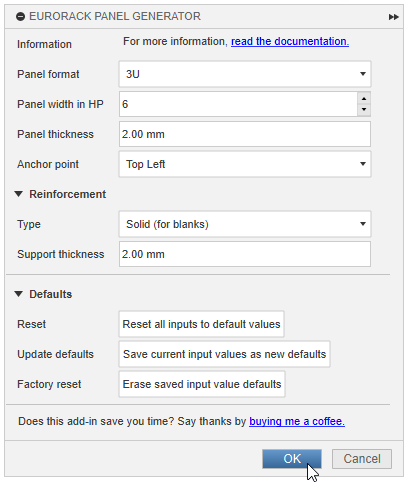
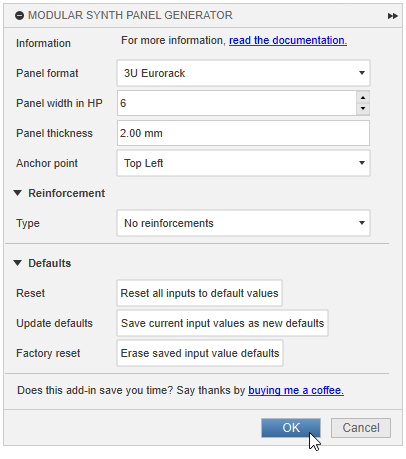
Rename project to ModularSynthPanelGenerator

Changed region(s): [[0.0, 0.0, 1.0, 1.0], [0.2956, 0.427, 0.9163, 0.549]]

diff --git a/lib/panelUtils/panel_command.py b/lib/panelUtils/panel_command.py
@@ -1,8 +1,8 @@
 import adsk.core, adsk.fusion, traceback
 
 from .. import fusionAddInUtils as futil
-from .eurorack_panel_options import EurorackPanelOptions
-from .eurorack_panel import createEurorackPanel
+from .panel_options import PanelOptions
+from .panel_generate import generatePanelComponent
 
 app = adsk.core.Application.get()
 ui = app.userInterface
@@ -19,10 +19,10 @@ ui = app.userInterface
 # Command Inputs API Sample
 # https://help.autodesk.com/view/fusion360/ENU/?guid=GUID-e5c4dbe8-ee48-11e4-9823-f8b156d7cd97
 
-CMD_NAME = 'Eurorack Panel Generator'
-CMD_Description = 'Create a Eurorack panel'
+CMD_NAME = 'Modular Synth Panel Generator'
+CMD_Description = 'Create a modular synth panel'
 
-OPTIONS = EurorackPanelOptions('eurorack_panel.json')
+OPTIONS = PanelOptions('modular_synth_panel_generator.json')
 INPUTS: adsk.core.CommandInputs
 INPUTS_VALID = True
 
@@ -61,13 +61,13 @@ def command_created(args: adsk.core.CommandCreatedEventArgs):
 # is immediately called after the created event not command inputs were created for the dialog.
 def onCommandExecute(args: adsk.core.CommandEventArgs):
   log('Command Execute Event')
-  generateEurorackPanel(args)
+  generatePanel(args)
 
 # This event handler is called when the command needs to compute a new preview in the graphics window.
 def onCommandPreview(args: adsk.core.CommandEventArgs):
   log('Command Preview Event')
   if INPUTS_VALID:
-    generateEurorackPanel(args)
+    generatePanel(args)
   else:
     args.executeFailed = True
     args.executeFailedMessage = "Some inputs are invalid, unable to generate preview"
@@ -114,7 +114,7 @@ def initializeInputs():
   global INPUTS
   defaultLengthUnits = app.activeProduct.unitsManager.defaultLengthUnits
 
-  message = 'For more information, <a href="https://github.com/cowboy/fusion-eurorack-panel-generator">read the documentation.</a>'
+  message = 'For more information, <a href="https://github.com/cowboy/ModularSynthPanelGenerator">read the documentation.</a>'
   INPUTS.addTextBoxCommandInput('infoTextBox', 'Information', message, 1, True)            
 
   heightDropdown = INPUTS.addDropDownCommandInput('formatType', 'Panel format', adsk.core.DropDownStyles.TextListDropDownStyle) # type: ignore
@@ -158,8 +158,7 @@ def enableDisableInputs():
 
   supportTypeInput = INPUTS.itemById('supportType')
   if supportTypeInput:
-    defaults = EurorackPanelOptions('panel_options.json')
-    supportTypeId = defaults.getIdForSupportTypeName(supportTypeInput.selectedItem.name) # type: ignore
+    supportTypeId = OPTIONS.getIdForSupportTypeName(supportTypeInput.selectedItem.name)
 
     INPUTS.itemById('supportSolidHeight').isVisible = supportTypeId == 'solid'
     INPUTS.itemById('supportShellHeight').isVisible = supportTypeId == 'shell'
@@ -222,7 +221,7 @@ def updateInputsFromOptions():
     supportShellWallThickness: adsk.core.addValueInput = INPUTS.itemById('supportShellWallThickness') # type: ignore
     supportShellWallThickness.value = OPTIONS.supportShellWallThickness
 
-def generateEurorackPanel(args: adsk.core.CommandEventArgs):
+def generatePanel(args: adsk.core.CommandEventArgs):
   global OPTIONS
   try:
     des = adsk.fusion.Design.cast(app.activeProduct)
@@ -239,14 +238,14 @@ def generateEurorackPanel(args: adsk.core.CommandEventArgs):
     newCmpOcc.component.name = componentName
     newCmpOcc.activate()
 
-    eurorackPanelComponent: adsk.fusion.Component = newCmpOcc.component
+    panelComponent: adsk.fusion.Component = newCmpOcc.component
 
-    createEurorackPanel(OPTIONS, eurorackPanelComponent)
+    generatePanelComponent(panelComponent, OPTIONS)
 
     # group features in timeline
-    count = eurorackPanelComponent.sketches.count + eurorackPanelComponent.features.count + eurorackPanelComponent.constructionAxes.count + eurorackPanelComponent.constructionPlanes.count
-    eurorackPanelGroup = des.timeline.timelineGroups.add(newCmpOcc.timelineObject.index, newCmpOcc.timelineObject.index + count)
-    eurorackPanelGroup.name = componentName
+    count = panelComponent.sketches.count + panelComponent.features.count + panelComponent.constructionAxes.count + panelComponent.constructionPlanes.count
+    panelGroup = des.timeline.timelineGroups.add(newCmpOcc.timelineObject.index, newCmpOcc.timelineObject.index + count)
+    panelGroup.name = componentName
   except Exception as err:
     args.executeFailed = True
     args.executeFailedMessage = getErrorMessage()

diff --git a/lib/panelUtils/panel_options.py b/lib/panelUtils/panel_options.py
@@ -5,7 +5,7 @@ app = adsk.core.Application.get()
 
 # All numeric values are in cm, which is the default for the Fusion API
 
-class EurorackPanelOptions(Persistable):
+class PanelOptions(Persistable):
   __anchorPoints = {
       "top-left": "Top Left",
       "top-right": "Top Right",
@@ -14,8 +14,8 @@ class EurorackPanelOptions(Persistable):
   }
   __supportTypes = {
     "none": "No reinforcements",
-    "solid": "Solid (for blanks)",
-    "shell": "Shell (for point-to-point switches/jacks)",
+    "solid": "Solid (good for larger blanks)",
+    "shell": "Shell (leaves space for components)",
   }
   __formatData = {
     "__defaults": {
@@ -25,8 +25,8 @@ class EurorackPanelOptions(Persistable):
       "slotOffsetY": 0.3,
       "slotOffsetX": 0.6,
     },
-    "3u": {
-      "name": "3U",
+    "3u_eurorack": {
+      "name": "3U Eurorack",
       "panelLength": 12.85,
       "maxPcbLength": 11.0,
     },
@@ -45,7 +45,7 @@ class EurorackPanelOptions(Persistable):
 
   def __init__(self, persistFile: str):
     Persistable.__init__(self, persistFile, {
-      "formatId": "3u",
+      "formatId": "3u_eurorack",
       "widthInHp": 6,
       "panelHeight": 0.2,
       "anchorPoint": "top-left",
@@ -62,6 +62,12 @@ class EurorackPanelOptions(Persistable):
     self.supportSolidHeight: float
     self.supportShellHeight: float
     self.supportShellWallThickness: float
+
+  def restoreDefaults(self):
+    super().restoreDefaults()
+    self.ensureDefaultKeyIsValid("formatId", self.__formatData)
+    self.ensureDefaultKeyIsValid("anchorPoint", self.__anchorPoints)
+    self.ensureDefaultKeyIsValid("supportType", self.__supportTypes)
 
   # anchorPoint getters and setters by name for the Fusion UI
   @property

diff --git a/lib/generalUtils/persist_utils.py b/lib/generalUtils/persist_utils.py
@@ -8,7 +8,7 @@ persistDir = normpath(join(dirname(abspath(__file__)), '../../persist_defaults')
 class Persistable():
   def __init__(self, persistFile: str, defaults: dict):
     self.persistFile = join(persistDir, persistFile)
-    self.defaults = defaults
+    self._defaults = defaults
     self.restoreDefaults()
   
   def saveDefaults(self):
@@ -17,7 +17,7 @@ class Persistable():
         mkdir(persistDir)
       with open(self.persistFile, 'w') as persistFile:
         data = {}
-        for key in self.defaults.keys():
+        for key in self._defaults.keys():
           data[key] = getattr(self, key)
         json.dump(data, persistFile, indent=2)
         futil.log(f'saved defaults file {self.persistFile}')
@@ -41,9 +41,16 @@ class Persistable():
       return False
 
   def restoreDefaults(self):
-    data = self.defaults | (self.__loadDefaults() or {})
+    data = self._defaults | (self.__loadDefaults() or {})
     for key, value in data.items():
       setattr(self, key, value)
+
+  # Ensure invalid values loaded from persistFile don't break things
+  def ensureDefaultKeyIsValid(self, keyName, obj):
+    key = getattr(self, keyName)
+    if not key in obj:
+      futil.log(f'Warning: {keyName} "{key}" invalid, restoring default value "{self._defaults[keyName]}"')
+      setattr(self, keyName, self._defaults[keyName])
 
   def eraseDefaults(self):
     try:

diff --git a/lib/panelUtils/panel_generate.py b/lib/panelUtils/panel_generate.py
@@ -1,12 +1,12 @@
 import adsk.core, adsk.fusion
 from ..generalUtils.sketch_utils import addPoints, constrainPointToPoint, constrainRectangleWidthHeight, lineMidpoint, midpoint, point, sketchRectangle, sketchSlot
 from ..generalUtils.extrude_utils import extrude
-from .eurorack_panel_options import EurorackPanelOptions
+from .panel_options import PanelOptions
 
 app = adsk.core.Application.get()
 ui = app.userInterface
 
-def createEurorackPanel(opts: EurorackPanelOptions, component: adsk.fusion.Component):
+def generatePanelComponent(component: adsk.fusion.Component, opts: PanelOptions):
   sketches = component.sketches
   xyPlane = component.xYConstructionPlane
   sketch = sketches.add(xyPlane)

diff --git a/commands/commandDialog/entry.py b/commands/commandDialog/entry.py
@@ -2,7 +2,7 @@ import adsk.core
 import os
 from ...lib import fusionAddInUtils as futil
 from ... import config
-from ...lib.eurorackPanelUtils.eurorack_panel_command import command_created, CMD_NAME, CMD_Description
+from ...lib.panelUtils.panel_command import command_created, CMD_NAME, CMD_Description
 app = adsk.core.Application.get()
 ui = app.userInterface
 

diff --git a/lib/panelUtils/__init__.py b/lib/panelUtils/__init__.py
@@ -1,0 +1,3 @@
+from .panel_generate import *
+from .panel_options import *
+from .panel_command import *

diff --git a/README.md b/README.md
@@ -1,6 +1,6 @@
-# Fusion Eurorack Panel Generator
+# Modular Synth Panel Generator
 
-[![Latest release](https://img.shields.io/github/v/release/cowboy/fusion-eurorack-panel-generator.svg?style=flat)][latest-release]
+[![Latest release](https://img.shields.io/github/v/release/cowboy/ModularSynthPanelGenerator.svg?style=flat)][latest-release]
 [![CC BY-NC-SA 4.0][cc-by-nc-sa-shield]][cc-by-nc-sa]
 [![Code of Conduct](https://img.shields.io/badge/code%20of-conduct-ff69b4.svg?style=flat)][coc]
 
@@ -8,34 +8,42 @@
 
 <img align="right" src="resources/project-logo-readme.png">
 
-TL;DR: This is a Eurorack panel generator [add-in][addins] for [Autodesk Fusion][fusion]
+TL;DR: This is a modular synth panel generator [add-in][addins] for [Autodesk Fusion][fusion]
 
-If you're like me and you like making DIY Eurorack modules but absolutely hate milling aluminum panels because little
-bits of metal go flying everywhere and it's impossible to get all the holes to line up just right and it's just so damn
+If you're like me and you like making DIY synth modules but absolutely hate milling aluminum panels because little bits
+of metal go flying everywhere and it's impossible to get all the holes to line up just right and it's just so damn
 tedious, maybe this thing will help you out.
 
-I've been 3D printing DIY Eurorack module panels for a while now, but until I made this add-in, I'd been copying and
-pasting some manual template components over and over again, which resulted in a very large and very slow Fusion project
-file.
+I've been 3D printing DIY Eurorack module panels for a while now, but until I made this add-in, I'd been manually
+copying and pasting "template" components over and over again, which resulted in a number of very large and very slow
+Fusion project files.
 
 ## Features
 
 With this add-in, you can...
 
-- generate [3U][intellijel-spec], [1U (Intellijel)][intellijel-spec], and [1U Tile (Pulp Logic)][pulplogic-spec]
-  compatible Eurorack panels, suitable for 3D printing (or CNC?)
+- generate modular synth panels (currently Eurorack and 1U formats are supported), suitable for 3D printing (or CNC?)
 - choose any width from 2 to 9000 HP
 - set a custom panel thickness
-- choose from two different reinforcement types, which each thicken the center area of the panel, while leaving the
-  panel thickness in the mounting screw area unchanged:
+- choose multiple reinforcement types, each of which thicken the center area of the panel, while leaving the panel
+  thickness in the mounting screw area unchanged:
   - `Shell`: This creates a hollow shell, adding strength while leaving space inside for jacks and switches. Generally
     useful for 4 HP and larger panels.
   - `Solid`: This adds strength to larger blanks, or very narrow modules where the shell approach wouldn't leave enough
     space for components.
 - save custom default values for easy recall
-- easily edit generated sketches to change the HP (or other) values or features to change extrusions, after-the-fact
+- easily edit generated sketches and features to change dimensions, after-the-fact
 
-Additional Notes:
+### Currently supported modular synth panel formats
+
+| Format name                   | Reference Specification                                     |
+| ----------------------------- | ----------------------------------------------------------- |
+| 3U Eurorack                   | [Doepfer - A-100 Construction Details][doepfer-spec]        |
+| 1U (Intellijel)               | [Intellijel - 1U Technical Specifications][intellijel-spec] |
+| 1U Tile (Pulp Logic)          | [Pulp Logic - About 1U Tiles][pulplogic-spec]               |
+| &lt;Your favorite format?&gt; | [Contributions welcome!](#contributing)                     |
+
+### Additional Notes
 
 - I print with PETG using a 0.4mm nozzle and 0.2mm layer height on a Bambu X1C, without issues.
 - When using reinforcements, it'll probably be easiest if you print with the panel face down. 😛
@@ -79,8 +87,8 @@ You have a few options:
 
 **Option 1:** You just want to use the add-in
 
-1. Download the `EurorackPanelGenerator-vX.Y.Z.zip` file from the [latest release][latest-release] page. Note that the
-   `X.Y.Z` part will change based on the release version.
+1. Download the `ModularSynthPanelGenerator-vX.Y.Z.zip` file from the [latest release][latest-release] page. Note that
+   the `X.Y.Z` part will change based on the release version.
 2. Unzip it. You can unzip anywhere, but the [Installing, Linking, and Removing Scripts and Add-Ins][addins-installing]
    documentation page has suggestions.
 
@@ -95,12 +103,12 @@ You have a few options:
 1. In Fusion open the `Scripts and Add-Ins` dialog by pressing `Shift + S` or going to
    `Utilities -> Add-Ins -> Scripts and Add-Ins` in the top menu of the Design workspace.
 2. Click the `+` (plus) icon at the top of the `Scripts and Add-Ins` dialog and select `Script or add-in from device`.
-3. Choose the folder created after unzipping / cloning. It will be named something like `EurorackPanelGenerator` or
-   `EurorackPanelGenerator-vX.Y.Z` and will contain `lib`, `commands` and `resources` folders, as well as files like
-   `EurorackPanelGenerator.manifest` and `EurorackPanelGenerator.py` (you may not be able to see some of the folder
-   contents in the `+` file dialog).
-4. Verify that you see the `EurorackPanelGenerator` add-in in the `Scripts and Add-Ins` dialog list.
-5. Enable the `Run` option for the `EurorackPanelGenerator` add-in.
+3. Choose the folder created after unzipping / cloning. It will be named something like `ModularSynthPanelGenerator` or
+   `ModularSynthPanelGenerator-vX.Y.Z` and will contain `lib`, `commands` and `resources` folders, as well as files like
+   `ModularSynthPanelGenerator.manifest` and `ModularSynthPanelGenerator.py` (you may not be able to see some of the
+   folder contents in the `+` file dialog).
+4. Verify that you see the `ModularSynthPanelGenerator` add-in in the `Scripts and Add-Ins` dialog list.
+5. Enable the `Run` option for the `ModularSynthPanelGenerator` add-in.
 
 When done correctly, the Design workspace `Solid -> Create` menu should have a `Eurorack Panel Generator` option.
 
@@ -126,8 +134,8 @@ Useful links:
 Development environment notes:
 
 - Launch the editor ([Visual Studio Code][vscode]) from inside Fusion by opening the `Scripts and Add-Ins` dialog
-  (`Shift + S`), right-clicking on the `EurorackPanelGenerator` and clicking `Edit in code editor`. This allows you to
-  attach the vscode debugger to the running process as well as reload after you've made changes.
+  (`Shift + S`), right-clicking on the `ModularSynthPanelGenerator` and clicking `Edit in code editor`. This allows you
+  to attach the vscode debugger to the running process as well as reload after you've made changes.
 - I've tried to leave the boilerplate files generated by Fusion's `Create script or add-in` relatively untouched, so
   that the code can be as modular as possible. Unused boilerplate has been removed where possible.
 - There are `# type: ignore` comments throughout the code to get
@@ -155,24 +163,19 @@ Development environment notes:
 
 Files of interest:
 
-| File                                                                                                  | Description                                                                                                                                        |
-| ----------------------------------------------------------------------------------------------------- | -------------------------------------------------------------------------------------------------------------------------------------------------- |
-| [commands/commandDialog](/commands/commandDialog)                                                     | Boilerplate command code generated by Fusion. You likely won't be touching these files.                                                            |
-| [lib/eurorackPanelUtils/eurorack_panel_command.py](/lib/eurorackPanelUtils/eurorack_panel_command.py) | Most of the command code that would have gone into the boilerplate command `entry` file. This is where the main dialog is initialized and updated. |
-| [lib/eurorackPanelUtils/eurorack_panel_options.py](/lib/eurorackPanelUtils/eurorack_panel_options.py) | `EurorackPanelOptions` class with add-in options and some constants, including convenience getters/setters for the ui dialog imputs.               |
-| [lib/eurorackPanelUtils/eurorack_panel.py](/lib/eurorackPanelUtils/eurorack_panel.py)                 | Code that actually generates the panel, including the sketch and extrusions.                                                                       |
-| [lib/generalUtils/debug_utils.py](/lib/generalUtils/debug_utils.py)                                   | Debugging utilities                                                                                                                                |
-| [lib/generalUtils/extrude_utils.py](/lib/generalUtils/extrude_utils.py)                               | Extrusion utilities                                                                                                                                |
-| [lib/generalUtils/persist_utils.py](/lib/generalUtils/persist_utils.py)                               | `Persistable` class for persisting defaults to disk                                                                                                |
-| [lib/generalUtils/sketch_utils.py](/lib/generalUtils/sketch_utils.py)                                 | Sketch utilities                                                                                                                                   |
-| [lib/generalUtils/value_utils.py](/lib/generalUtils/value_utils.py)                                   | Value normalization utilities                                                                                                                      |
+| File                                                                    | Description                                                                                                                                           |
+| ----------------------------------------------------------------------- | ----------------------------------------------------------------------------------------------------------------------------------------------------- |
+| [commands/commandDialog](/commands/commandDialog)                       | Boilerplate command code generated by Fusion. You likely won't be touching these files.                                                               |
+| [lib/panelUtils/panel_command.py](/lib/panelUtils/panel_command.py)     | Most of the command code that would have gone into the boilerplate command `entry.py` file. This is where the main dialog is initialized and updated. |
+| [lib/panelUtils/panel_options.py](/lib/panelUtils/panel_options.py)     | `PanelOptions` class with panel options and constants, including convenience getters/setters for ui dialog imputs.                                    |
+| [lib/panelUtils/panel_generate.py](/lib/panelUtils/panel_generate.py)   | Code that actually generates the panel, including the sketch and extrusions.                                                                          |
+| [lib/generalUtils/debug_utils.py](/lib/generalUtils/debug_utils.py)     | Debugging utilities                                                                                                                                   |
+| [lib/generalUtils/extrude_utils.py](/lib/generalUtils/extrude_utils.py) | Extrusion utilities                                                                                                                                   |
+| [lib/generalUtils/persist_utils.py](/lib/generalUtils/persist_utils.py) | `Persistable` class for persisting defaults to disk                                                                                                   |
+| [lib/generalUtils/sketch_utils.py](/lib/generalUtils/sketch_utils.py)   | Sketch utilities                                                                                                                                      |
+| [lib/generalUtils/value_utils.py](/lib/generalUtils/value_utils.py)     | Value normalization utilities                                                                                                                         |
 
 _(More to come, but in the meantime, if you give this a try and have any issues, please let me know)_
-
-## References
-
-- [Intellijel - 1U Technical Specifications][intellijel-spec]
-- [Pulp Logic - About 1U Tiles][pulplogic-spec]
 
 ## Support the project
 
@@ -198,11 +201,12 @@ License][cc-by-nc-sa].
 [addins]: https://help.autodesk.com/view/fusion360/ENU/?guid=GUID-9701BBA7-EC0E-4016-A9C8-964AA4838954
 [addins-installing]:
   https://help.autodesk.com/view/fusion360/ENU/?guid=GUID-9701BBA7-EC0E-4016-A9C8-964AA4838954#Installing
-[latest-release]: https://github.com/cowboy/fusion-eurorack-panel-generator/releases/latest
+[latest-release]: https://github.com/cowboy/ModularSynthPanelGenerator/releases/latest
 [cc-by-nc-sa]: http://creativecommons.org/licenses/by-nc-sa/4.0/
 [cc-by-nc-sa-image]: https://licensebuttons.net/l/by-nc-sa/4.0/88x31.png
 [cc-by-nc-sa-shield]: https://img.shields.io/badge/License-CC%20BY--NC--SA%204.0-lightgrey.svg
-[coc]: https://github.com/cowboy/fusion-eurorack-panel-generator/blob/main/CODE_OF_CONDUCT.md
+[coc]: https://github.com/cowboy/ModularSynthPanelGenerator/blob/main/CODE_OF_CONDUCT.md
 [vscode]: https://code.visualstudio.com/
+[doepfer-spec]: https://www.doepfer.de/a100_man/a100m_e.htm
 [pulplogic-spec]: https://pulplogic.com/1u_tiles/
 [intellijel-spec]: https://intellijel.com/support/1u-technical-specifications/
